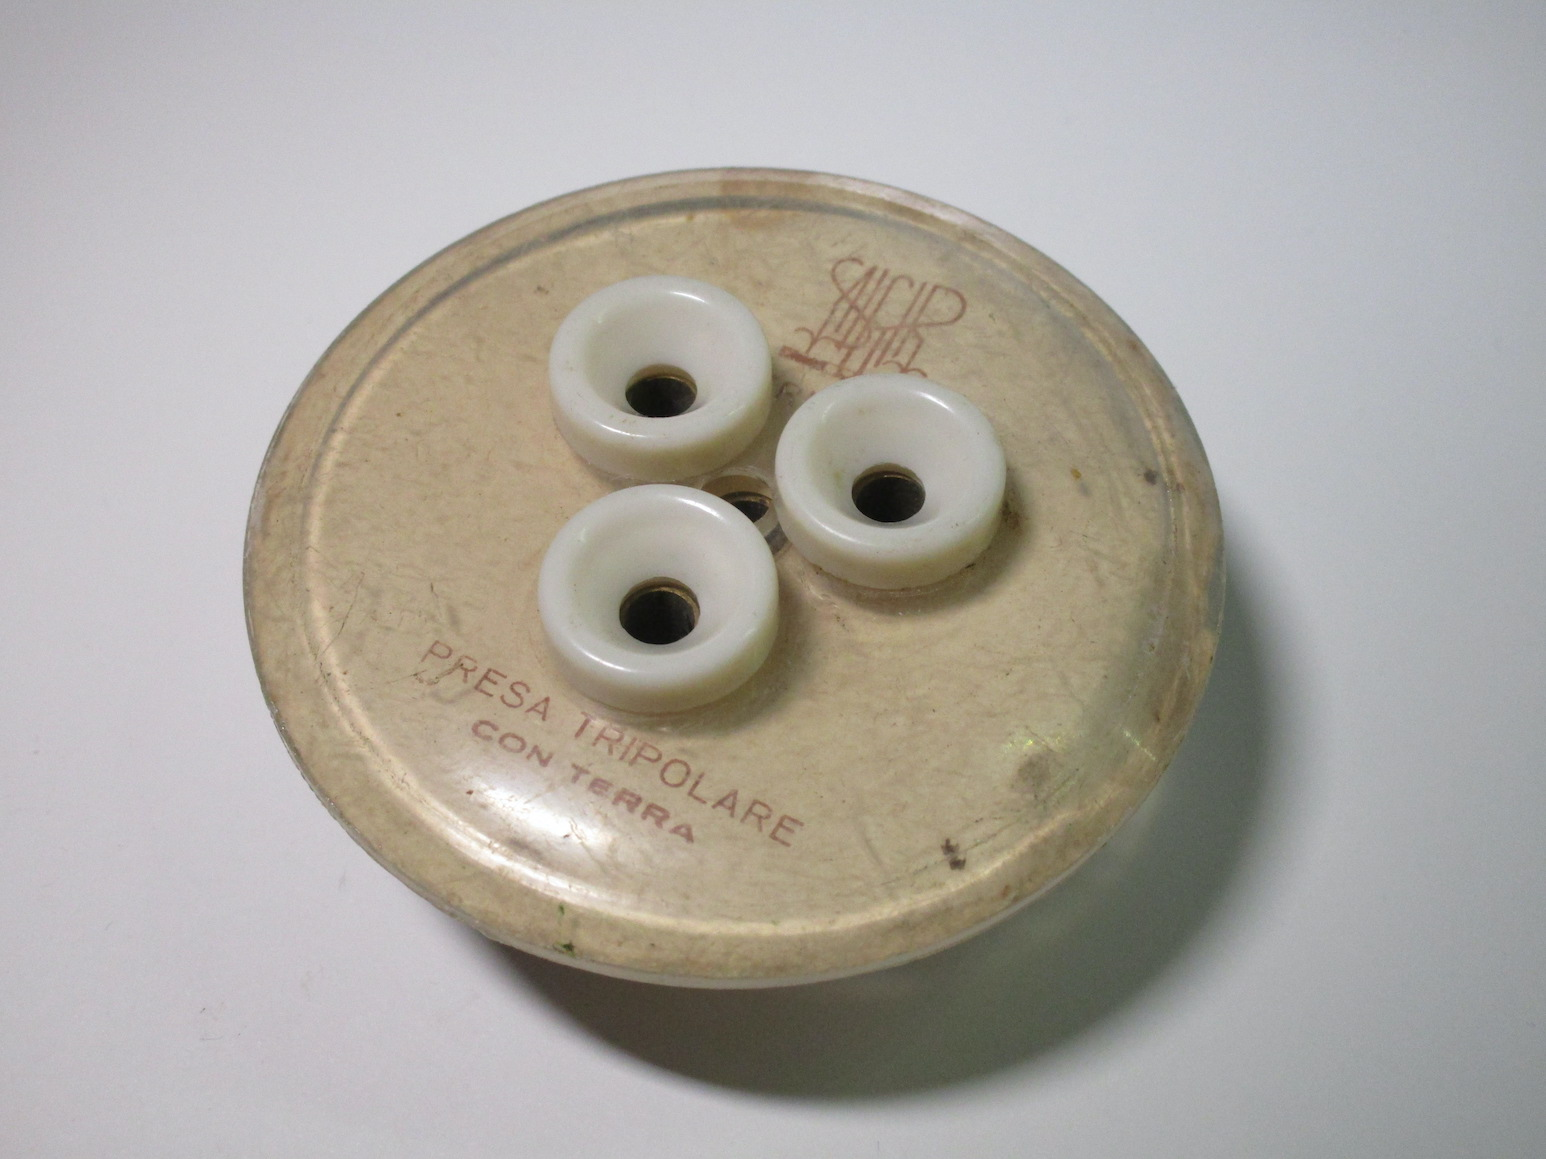
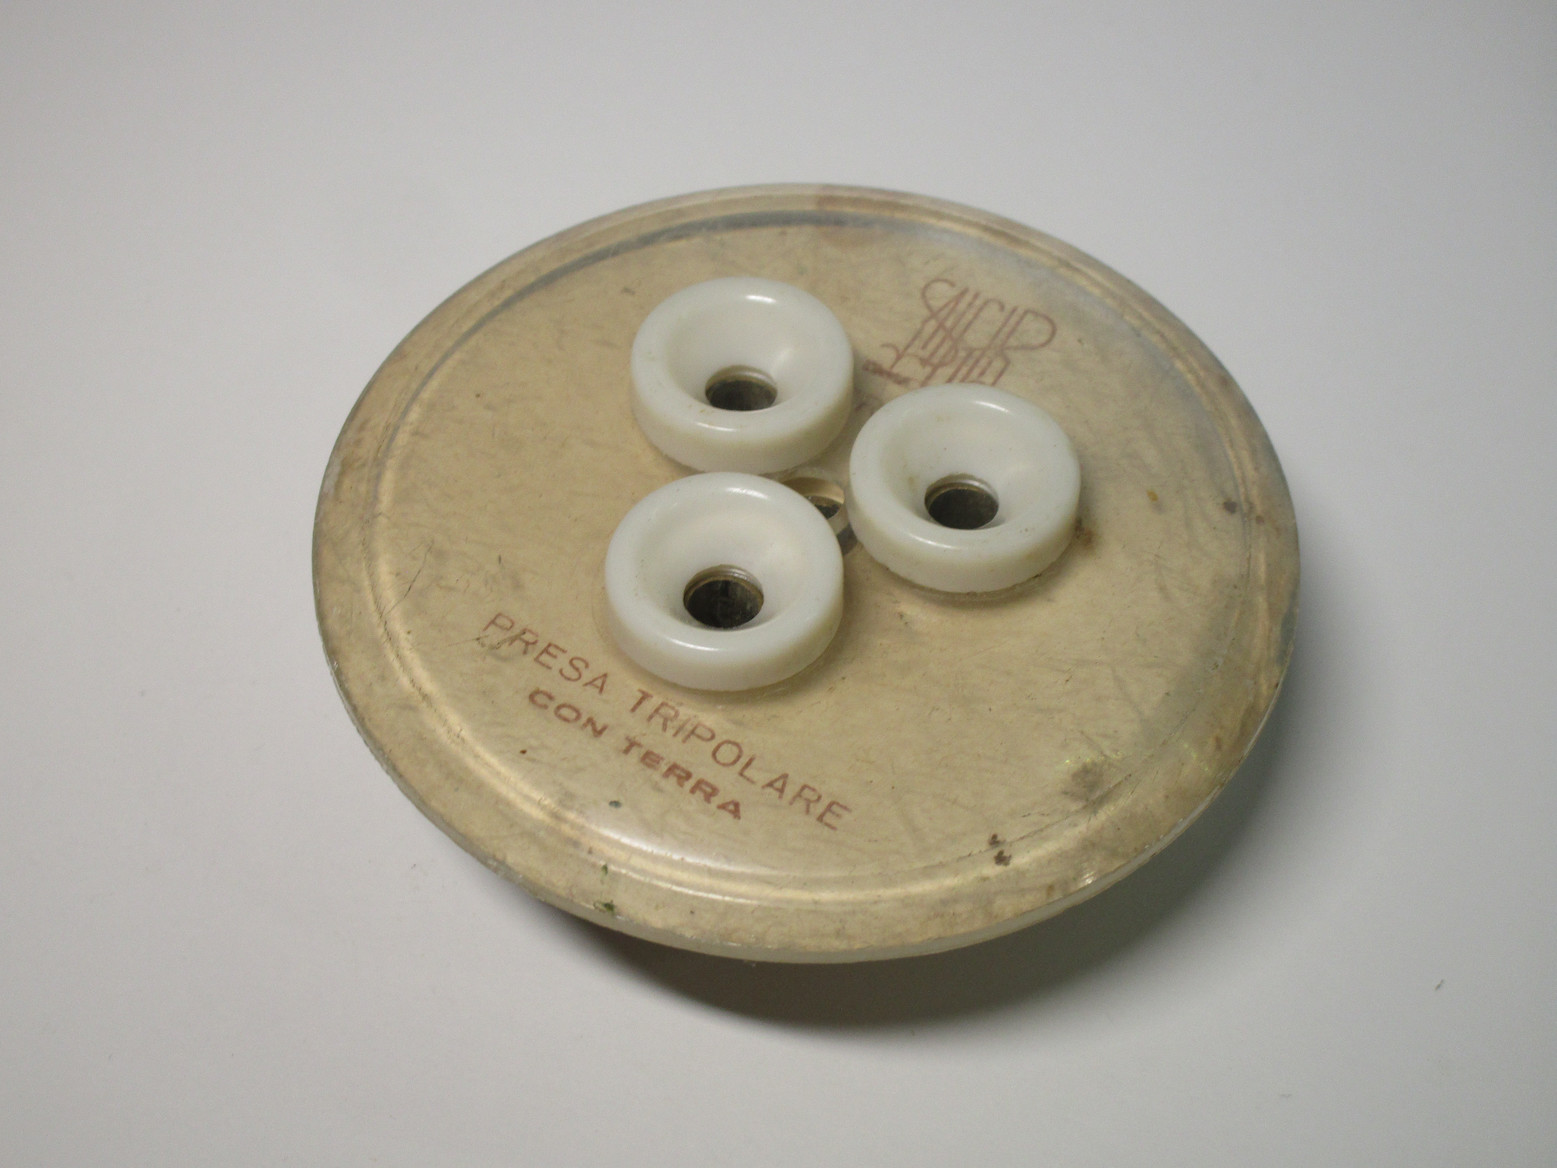
images

diff --git a/other/electrical_stuff/socketsandlightswitches.html b/other/electrical_stuff/socketsandlightswitches.html
@@ -94,6 +94,7 @@
   </p>
   <a href="images/vintage/old_socket_19a.jpg"><img src="images/vintage/old_socket_19a.jpg" height="140"></a>
   <a href="images/vintage/old_socket_19b.jpg"><img src="images/vintage/old_socket_19b.jpg" height="140"></a>
+  <a href="images/vintage/old_socket_19c.jpg"><img src="images/vintage/old_socket_19c.jpg" height="140"></a>
 
   <h3>Dual lightswitch, unknown brand</h3>
   <p><i>Rating: 6A 250V</i></p>
@@ -136,7 +137,10 @@
   <p>
     The Piuma series is interesting because of its similarity, in a way, to devices made for the US market.
     Like before, each item is a single piece, however in this case the cover plate is separate.
-  </p>-->
+  </p>
+  <a href=""><img src="" height="140"></a>
+  <a href=""><img src="" height="140"></a>
+-->
 
   <h4>Other later round box devices</h4>
   <p><img src="images/modern/socket_05.jpg" height=95 style="float: right; padding-left: 15px; padding-top: 2px; padding-bottom: 6px;">
